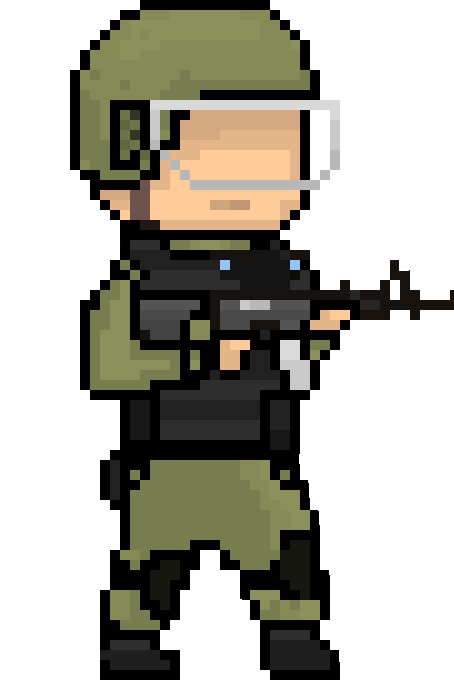
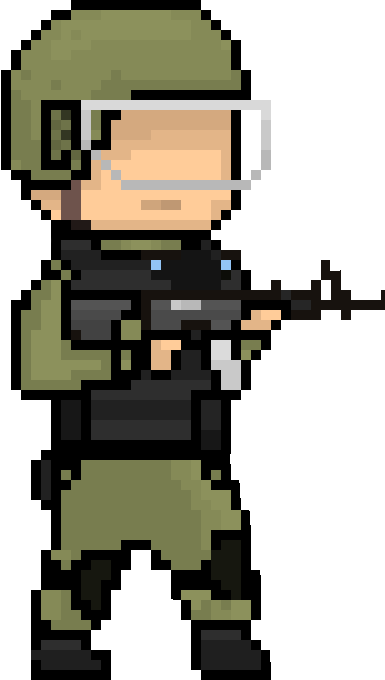
adjust soilder png and hitzone

diff --git a/client/raycaster0_5.html b/client/raycaster0_5.html
@@ -1341,7 +1341,7 @@ Game.prototype.drawOtherPlayers = function(otherPlayer, anotherPlayersAngleToMai
 	const 
 		otherPlayerId = otherPlayer.playerId,
 		playerMaxWidth = 0.3 * CONST.getWindowWidth(),
-		playerMaxHeight = playerMaxWidth * 1.5,
+		playerMaxHeight = playerMaxWidth * (24 / 13.6), /* ratio as per actual image ratio */
 		//distance = z * Math.cos(anotherPlayersAngleToMainPlayer),
 		distance = z,
 		playerCurrentWidth = Math.min((3 * playerMaxWidth / z) * 0.8, playerMaxWidth),
@@ -1367,7 +1367,8 @@ Game.prototype.drawOtherPlayers = function(otherPlayer, anotherPlayersAngleToMai
 			drawX = (otherPlayerPosOnScreen * param.resolution - playerCurrentWidth / 2),
 			drawY = 0.5 * (screenHeight - playerCurrentHeight) + 0.2 * playerCurrentHeight + state.accumulatedJumpHeight - playerCurrentJumpHeight,
 			drawWidth = playerCurrentWidth,
-			drawHeight = playerCurrentHeight;
+			drawHeight = playerCurrentHeight,
+			hitZoneWidth = (10 / 13.6) * drawWidth; /* ratio as per actual image ratio */
 		//ctx.fillStyle = otherPlayer.isRespawning ? 'rgba(0, 255, 0, 0.3)' : 'rgba(0, 255, 0, 1)';
 		//ctx.beginPath();
 		//ctx.fillRect(drawX, drawY, drawWidth, drawHeight);
@@ -1392,7 +1393,7 @@ Game.prototype.drawOtherPlayers = function(otherPlayer, anotherPlayersAngleToMai
 		ctx.fillText(otherPlayerId, drawX + 0.5 * drawWidth, drawY - 10); 
 		// update hitZone
 		if (!otherPlayer.isRespawning) {
-			state.hitZone.push([otherPlayerId, drawX, drawY, drawWidth, drawHeight]);
+			state.hitZone.push([otherPlayerId, drawX, drawY, hitZoneWidth, drawHeight]);
 		}
 	}
 }
